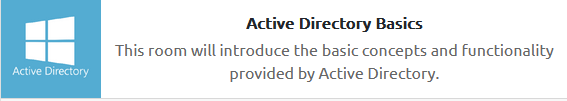
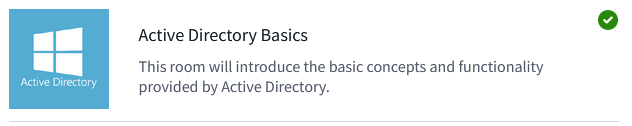
Changed room statis active directory basics

diff --git a/README.md b/README.md
@@ -11,7 +11,7 @@ An alternative version can be found here: https://kevinovitz.github.io/TryHackMe
 
 The following rooms are available/in progress:
 
-- [x] [Active Directory Basics](winadbasics/winadbasics.md) [Answered]
+- [x] [Active Directory Basics](winadbasics/winadbasics.md)
 - [x] [Advent of Cyber 1 [2019]](25daysofchristmas/25daysofchristmas.md)
 - [x] [Advent of Cyber 2 [2020]](adventofcyber2/adventofcyber2.md)
 - [x] [Advent of Cyber 2023](adventofcyber2023/adventofcyber2023.md)
